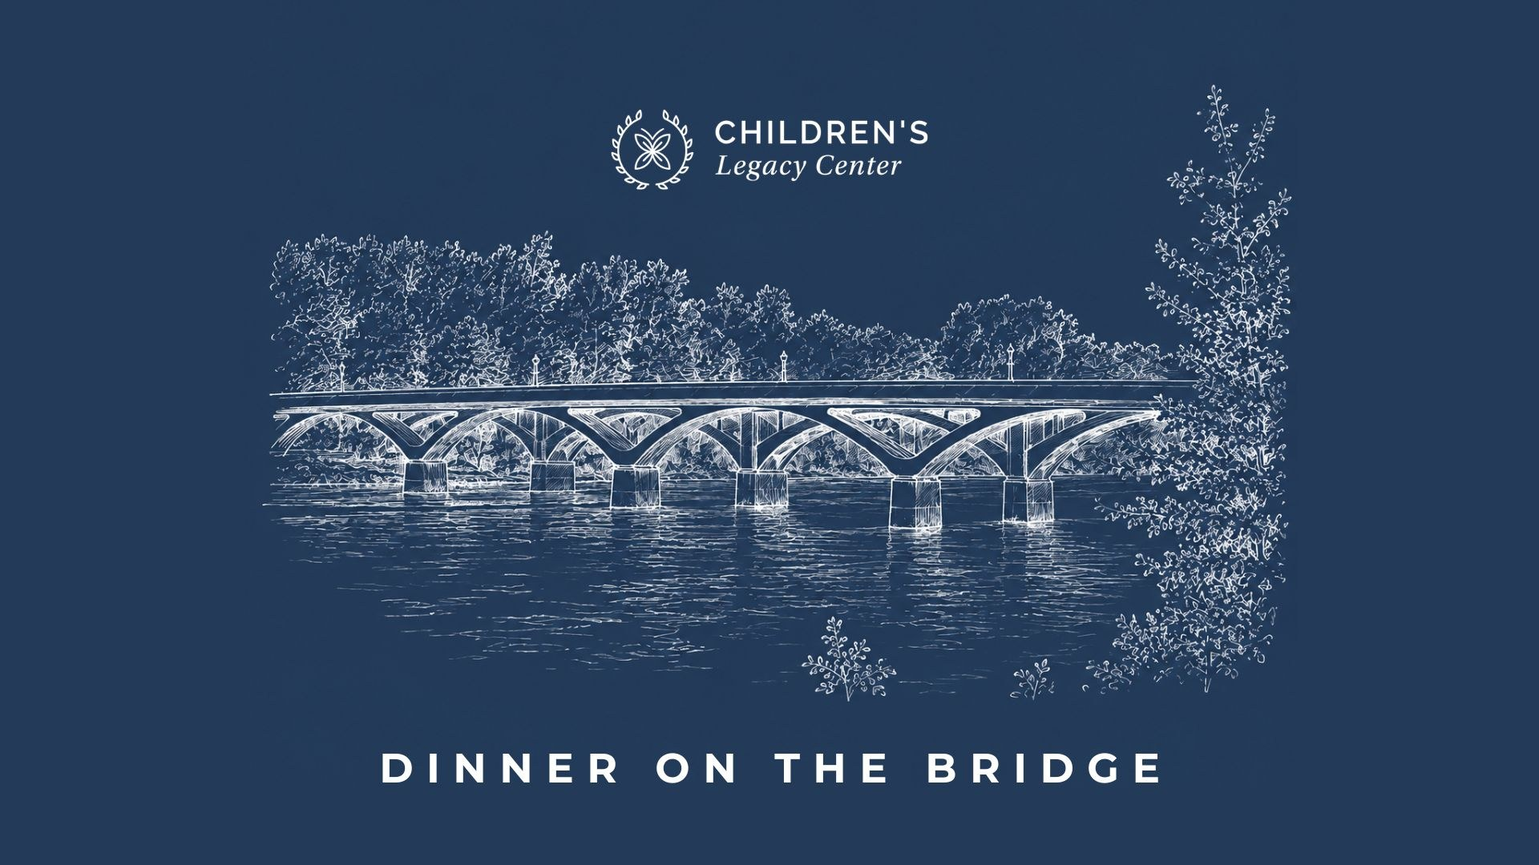
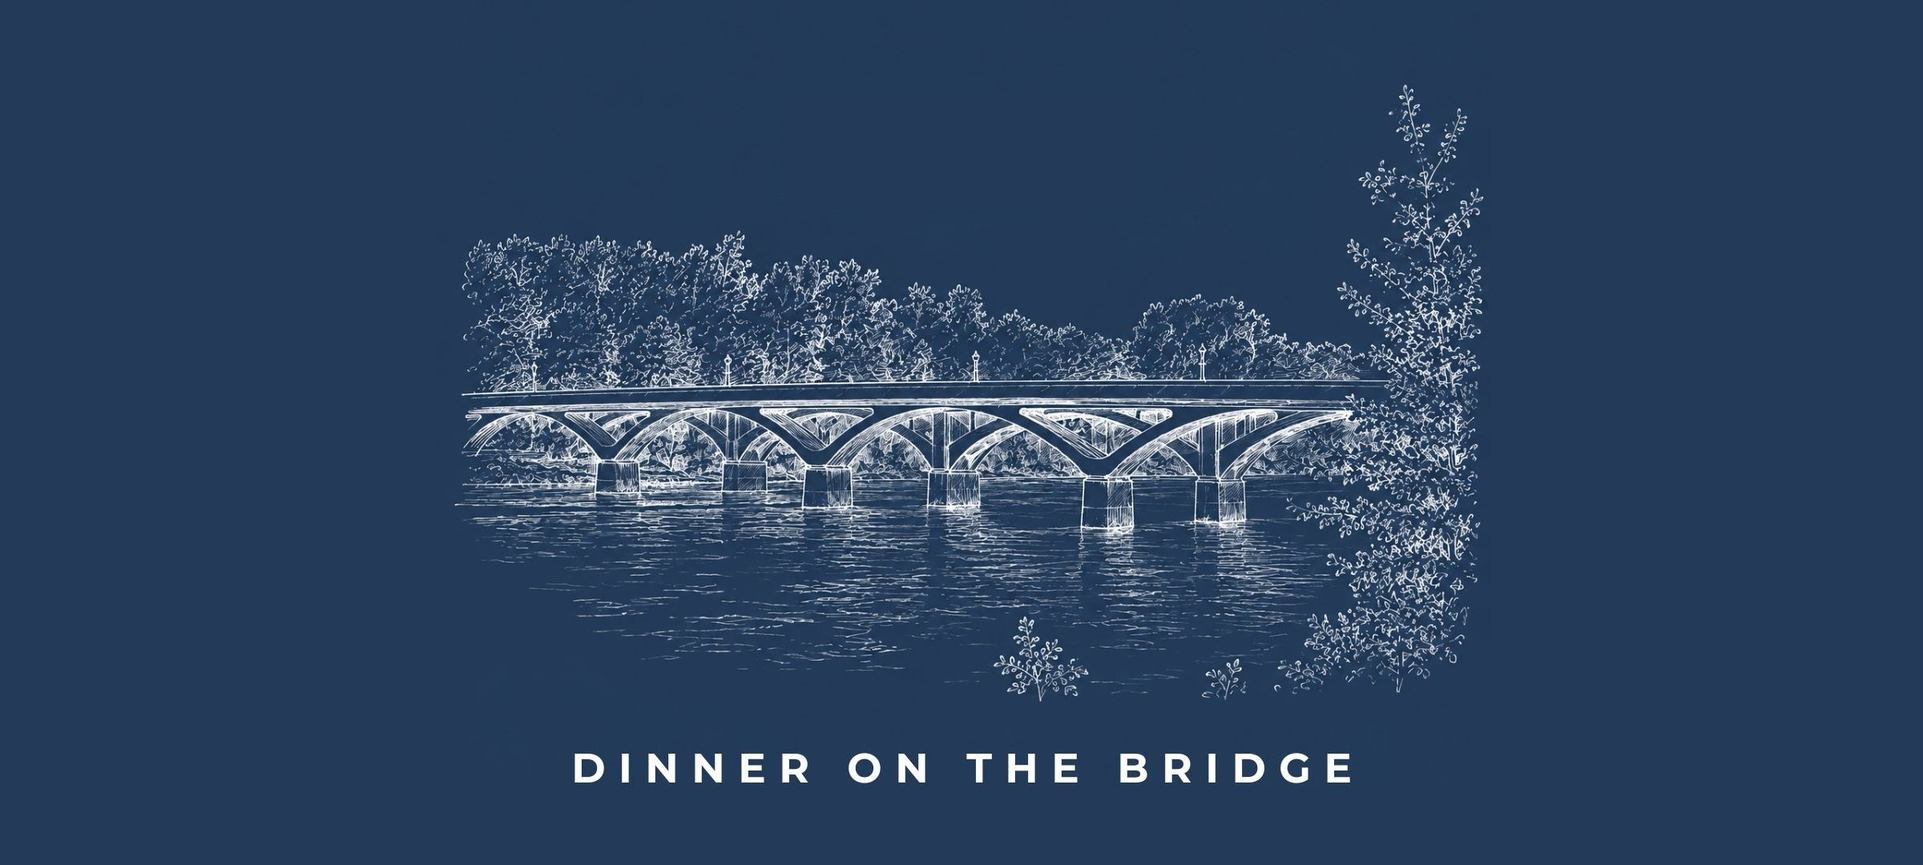
clc: Dinner on the Bridge round-2 refinement — hero rework, Ten Years flip, alternating section colors, stats-gap fix
Mat's second screencast pass (tr_20260728_011f755), on top of commits 1da3d4a/dd95c6f:
- Hero: removed the redundant CLC logo from the banner image (already in nav), widened canvas
  1920x1080 -> 2400x1080 on the same solid navy so the illustration reads smaller and crops less
  across viewport widths, capped rendered height to ~55vh instead of near-full-viewport
- Added spacing above the intro section and around the Get Your Tickets button
- Flipped Ten Years to image-left/text-right (alternates with the row above) and capped its photo
  height to match the text column instead of a tall uncropped scale
- Applied the alternating section-background pattern (white/gray/blue/white/gray/blue/white):
  Ten Years -> gray, pull-quote -> blue, Impact Stats -> gray (Map and Become-a-Sponsor already
  matched via their existing site-wide classes, no change needed there)
- Root-caused the white gap below the stats row to the shared .page-padding class's baked-in
  margin-bottom:15px (padding override alone never reached it) and zeroed it out

Changed region(s): [[0.1562, 0.0917, 0.8438, 0.825], [0.25, 0.8556, 0.75, 0.9167], [0.375, 0.1222, 0.5938, 0.2139]]

diff --git a/clc/pages/dinner-on-the-bridge-2026/preview/dinner-on-the-bridge-2026.html b/clc/pages/dinner-on-the-bridge-2026/preview/dinner-on-the-bridge-2026.html
@@ -36,13 +36,32 @@
   the sponsorship-cover thumbnail sizing, the Ten Years dead-space column, the container/gutter
   mismatch on the intro section, the detached gold rule, and the fabricated Google Maps embed
   (was centered on 0x0 / showed a Travelodge, not Diestelhorst Bridge).
+
+  2026-07-28 ROUND 2 — Mat's second screencast pass (tr_20260728_011f755, "looking better, but we
+  have some work to do"). Reworked the banner asset itself (logo removed — redundant with the nav
+  above it; canvas widened 1920->2400 on the same solid navy so the illustration reads smaller and
+  crops less across viewport widths) and capped its rendered height so it no longer eats the full
+  viewport. Added breathing room above the intro section and around the tickets button. Flipped
+  the Ten Years row to image-left/text-right and constrained its photo height to match the copy
+  column instead of dominating the row. Applied the alternating section-background pattern Mat
+  asked for (white / gray / blue / white / gray / blue / white...) — turned out two of the six
+  sections already matched by virtue of their shared site-wide classes (`.map.cfr-what-to-expect`
+  is already navy in the global stylesheet, `.pilot` is already white-smoke), so only Ten Years,
+  the pull-quote, and Impact Stats actually needed color changes. Root-caused the white gap below
+  the stats row to the shared `.page-padding` class's baked-in `margin-bottom:15px`, which isn't
+  reachable by overriding padding alone — zeroed it out directly.
 -->
 
 <!-- 1. HERO — full-width banner (the blue Diestelhorst Bridge illustration Morgan sent).
      Plain responsive image, not the site's `.main-image._4` hero-band classes — see the
-     2026-07-28 fix note in git history for why. -->
+     2026-07-28 fix note in git history for why.
+     ROUND 2: asset itself edited (logo painted out with the sampled navy fill since the bg is a
+     flat solid color; canvas widened 1920x1080 -> 2400x1080 on the same navy so the illustration
+     occupies a smaller share of the frame at any given render width). max-height + object-fit:cover
+     added so the hero reads at roughly half the viewport instead of nearly filling it (Mat: "don't
+     take that verbatim" on the 50% figure — used judgment, not scripture). -->
 <div class="services-main">
-  <img src="https://raw.githubusercontent.com/Mat-Longinow/arch/main/clc/pages/images/dinner-on-the-bridge-2026-banner.jpg" loading="lazy" alt="Dinner on the Bridge — Children's Legacy Center" style="width:100%;height:auto;display:block;">
+  <img src="https://raw.githubusercontent.com/Mat-Longinow/arch/main/clc/pages/images/dinner-on-the-bridge-2026-banner.jpg" loading="lazy" alt="Dinner on the Bridge — Children's Legacy Center" style="width:100%;max-height:55vh;object-fit:cover;display:block;">
 </div>
 
 <!-- 2. EVENT INTRO + TICKETS CTA.
@@ -51,8 +70,10 @@
      is what made this block read as indented/offset relative to the sections below it. Also swapped
      the stray `.yellow-div-copy` (a different, grid-based component, not a rule) for the standard
      `.yellow-div` used as the gold underline everywhere else on this page, and gave the title a
-     size closer to other CLC event pages' hero titles. -->
-<section class="hero-without-image">
+     size closer to other CLC event pages' hero titles.
+     ROUND 2: added top padding on the section so the title doesn't sit squeezed against the hero,
+     and top margin on the tickets button so it doesn't crowd the "Benefiting..." line above it. -->
+<section class="hero-without-image" style="padding-top:48px;">
   <div class="page-padding">
     <div class="container-large">
       <h3 class="heading-26 crab-feed-hero-title" style="font-size:2.75rem;">Dinner on the Bridge<br></h3>
@@ -60,7 +81,7 @@
       <div class="columns-7 w-row" style="margin-top:24px;">
         <div class="w-col w-col-6">
           <p class="paragraph-14 crab-feed-tickets-paragraph"><strong>A first-time fundraising event honoring ten years of service.</strong><br><br>On a Saturday evening in September, the Diestelhorst Bridge will be closed and transformed. One continuous table will run its length, lit from above, framed by the Sacramento River on either side. Odell Craft BBQ has built a multi-course menu specifically for this evening and this place.<br><br><strong>September 12, 2026 | 5:30 PM</strong><br>Diestelhorst Bridge, Redding, California<br>Single seating &middot; One continuous table<br><br><em>Benefiting Children's Legacy Center &middot; Founding Culinary Partner, Odell Craft BBQ</em></p>
-          <a href="https://onesafeplace.ticketspice.com/dinner-on-the-bridge" target="_blank" rel="noopener" class="button-link w-inline-block">
+          <a href="https://onesafeplace.ticketspice.com/dinner-on-the-bridge" target="_blank" rel="noopener" class="button-link w-inline-block" style="margin-top:16px;">
             <div class="button learn-more nomintions-button purple-button">
               <h4 class="h4-type button nominations-text purple-button">Get Your Tickets</h4>
             </div>
@@ -79,23 +100,28 @@
      tall photo overpowering a short text column and dumping dead white space beneath the text.
      Centering the row vertically (instead of the default top-align) distributes the leftover
      space evenly instead of stacking it all below the copy, and the img is set to fill its
-     column at a sane, uncropped scale. -->
-<div class="services-holder crt-section-2">
+     column at a sane, uncropped scale.
+     ROUND 2: flipped to image-left/text-right (the row above is text-left/image-right, so this
+     alternates per Mat's ask) and the row itself carries the section's own background color
+     directly on the outer div rather than a nested wrapper, since `.services-holder.crt-section-2`
+     already carries its own bottom padding and safely contains it. Image capped to a max-height
+     roughly matching the text column instead of the previous 200%-scaled tall crop. -->
+<div class="services-holder crt-section-2" style="background-color:var(--white-smoke);">
   <div class="page-padding">
     <div class="container-large">
       <div class="vertical-page">
         <div class="careers-text _2">
           <div class="div-block-38 white _3">
             <div class="columns _2 whi w-row" style="align-items:center;">
+              <div class="column _2 white w-col w-col-6">
+                <div class="div-block-39 _2"><img src="https://raw.githubusercontent.com/Mat-Longinow/arch/main/clc/pages/images/dinner-on-the-bridge-2026-diestelhorst-2.jpg" loading="lazy" alt="Diestelhorst Bridge at sunset" style="width:100%;height:auto;max-height:420px;display:block;object-fit:cover;"></div>
+              </div>
               <div class="image-holder _2 white w-col w-col-6">
                 <div class="full-wrap">
                   <h3 class="heading-25">Ten Years. One Bridge. One Evening.</h3>
                   <div class="yellow-div left-side"></div>
                   <p class="paragraph-12 crt-info-blurb">Every day in Shasta County, a child walks through a door after the worst day of their life. A family arrives when the systems they trusted have failed them. An adult survivor steps forward, ready to begin healing. What happens next depends entirely on who is waiting on the other side of that door.<br><br>For ten years, the people of Children's Legacy Center have been waiting. Forensic interviewers. Trauma therapists. Family advocates. Medical professionals. Trafficking response specialists. They do not do this work for recognition &mdash; they do it because the children have nowhere else to go.<br><br>State and federal contracts pay for the floor of what every child deserves. Philanthropy is what raises the ceiling. This is the first time we have gathered the community around a single table to celebrate what has been built.</p>
                 </div>
-              </div>
-              <div class="column _2 white w-col w-col-6">
-                <div class="div-block-39 _2"><img src="https://raw.githubusercontent.com/Mat-Longinow/arch/main/clc/pages/images/dinner-on-the-bridge-2026-diestelhorst-2.jpg" loading="lazy" alt="Diestelhorst Bridge at sunset" style="width:100%;height:auto;display:block;object-fit:cover;"></div>
               </div>
             </div>
           </div>
@@ -107,10 +133,15 @@
 
 <!-- 3B. PULL QUOTE — promoted from plain body text (was buried mid-paragraph in the sponsorship
      block) to its own designed callout, matching where it sits in the guide's own layout: right
-     after the Ten Years story, before Partnership Tiers. -->
-<div class="page-padding" style="background-color:var(--white-smoke);padding-top:48px;padding-bottom:48px;">
+     after the Ten Years story, before Partnership Tiers.
+     ROUND 2: this is the "Every yes from a sponsor" section in Mat's alternating pattern (white /
+     gray / BLUE / white...) — flipped from white-smoke to navy, quote text to white for contrast,
+     gold left-rule kept. `margin-bottom:0` added since this div's bare `.page-padding` class carries
+     a baked-in 15px bottom margin (the same class that caused the stats-row gap below) — zeroing it
+     here too so no seam sneaks in between this and Partnership Tiers. -->
+<div class="page-padding" style="background-color:var(--dark-slate-blue);padding-top:48px;padding-bottom:48px;margin-bottom:0;">
   <div class="container-large" style="max-width:900px;">
-    <blockquote style="margin:0;padding:0 0 0 24px;border-left:4px solid var(--gold);font-family:utopia-std, sans-serif;font-style:italic;font-size:1.5rem;line-height:1.4;color:var(--dark-slate-blue);">
+    <blockquote style="margin:0;padding:0 0 0 24px;border-left:4px solid var(--gold);font-family:utopia-std, sans-serif;font-style:italic;font-size:1.5rem;line-height:1.4;color:var(--white);">
       &ldquo;Every yes from a sponsor is a yes to a child who needs somewhere to go after the worst day of their life.&rdquo;
     </blockquote>
   </div>
@@ -188,10 +219,16 @@
 </div>
 
 <!-- 5. IMPACT STATS — absent from the first pass. No stat-row precedent exists elsewhere in the
-     CLC/OSP guts (checked), so this is a new, self-contained component: a navy band matching the
-     site's existing `--dark-slate-blue` section treatment (same pattern as the When & Where band
-     below), three figures verbatim from the guide. -->
-<div class="page-padding" style="background-color:var(--dark-slate-blue);color:var(--white);padding-top:56px;padding-bottom:56px;">
+     CLC/OSP guts (checked), so this is a new, self-contained component.
+     ROUND 2: this is the 5th section in Mat's alternating pattern (white / gray / blue / white /
+     GRAY / blue / white...) — flipped from navy to white-smoke, body text to dark-slate-blue for
+     contrast (gold figures untouched, they read fine on light too). Root cause of the white gap
+     Mat flagged below this row: the bare `.page-padding` class carries `margin-bottom:15px` in the
+     site's global stylesheet, which the earlier inline `padding-top/bottom` override never touched
+     (padding and margin are different properties) — that 15px margin was rendering as a strip of
+     the page's default white showing between this section's box and the (already-navy, unrelated)
+     Map section below it. Zeroed out directly. -->
+<div class="page-padding" style="background-color:var(--white-smoke);color:var(--dark-slate-blue);padding-top:56px;padding-bottom:56px;margin-bottom:0;">
   <div class="container-large">
     <div style="display:flex;flex-wrap:wrap;gap:32px;text-align:center;justify-content:center;">
       <div style="flex:1 1 220px;">

diff --git a/clc/pages/dinner-on-the-bridge-2026/production/dinner-on-the-bridge-2026.html b/clc/pages/dinner-on-the-bridge-2026/production/dinner-on-the-bridge-2026.html
@@ -36,13 +36,32 @@
   the sponsorship-cover thumbnail sizing, the Ten Years dead-space column, the container/gutter
   mismatch on the intro section, the detached gold rule, and the fabricated Google Maps embed
   (was centered on 0x0 / showed a Travelodge, not Diestelhorst Bridge).
+
+  2026-07-28 ROUND 2 — Mat's second screencast pass (tr_20260728_011f755, "looking better, but we
+  have some work to do"). Reworked the banner asset itself (logo removed — redundant with the nav
+  above it; canvas widened 1920->2400 on the same solid navy so the illustration reads smaller and
+  crops less across viewport widths) and capped its rendered height so it no longer eats the full
+  viewport. Added breathing room above the intro section and around the tickets button. Flipped
+  the Ten Years row to image-left/text-right and constrained its photo height to match the copy
+  column instead of dominating the row. Applied the alternating section-background pattern Mat
+  asked for (white / gray / blue / white / gray / blue / white...) — turned out two of the six
+  sections already matched by virtue of their shared site-wide classes (`.map.cfr-what-to-expect`
+  is already navy in the global stylesheet, `.pilot` is already white-smoke), so only Ten Years,
+  the pull-quote, and Impact Stats actually needed color changes. Root-caused the white gap below
+  the stats row to the shared `.page-padding` class's baked-in `margin-bottom:15px`, which isn't
+  reachable by overriding padding alone — zeroed it out directly.
 -->
 
 <!-- 1. HERO — full-width banner (the blue Diestelhorst Bridge illustration Morgan sent).
      Plain responsive image, not the site's `.main-image._4` hero-band classes — see the
-     2026-07-28 fix note in git history for why. -->
+     2026-07-28 fix note in git history for why.
+     ROUND 2: asset itself edited (logo painted out with the sampled navy fill since the bg is a
+     flat solid color; canvas widened 1920x1080 -> 2400x1080 on the same navy so the illustration
+     occupies a smaller share of the frame at any given render width). max-height + object-fit:cover
+     added so the hero reads at roughly half the viewport instead of nearly filling it (Mat: "don't
+     take that verbatim" on the 50% figure — used judgment, not scripture). -->
 <div class="services-main">
-  <img src="https://raw.githubusercontent.com/Mat-Longinow/arch/main/clc/pages/images/dinner-on-the-bridge-2026-banner.jpg" loading="lazy" alt="Dinner on the Bridge — Children's Legacy Center" style="width:100%;height:auto;display:block;">
+  <img src="https://raw.githubusercontent.com/Mat-Longinow/arch/main/clc/pages/images/dinner-on-the-bridge-2026-banner.jpg" loading="lazy" alt="Dinner on the Bridge — Children's Legacy Center" style="width:100%;max-height:55vh;object-fit:cover;display:block;">
 </div>
 
 <!-- 2. EVENT INTRO + TICKETS CTA.
@@ -51,8 +70,10 @@
      is what made this block read as indented/offset relative to the sections below it. Also swapped
      the stray `.yellow-div-copy` (a different, grid-based component, not a rule) for the standard
      `.yellow-div` used as the gold underline everywhere else on this page, and gave the title a
-     size closer to other CLC event pages' hero titles. -->
-<section class="hero-without-image">
+     size closer to other CLC event pages' hero titles.
+     ROUND 2: added top padding on the section so the title doesn't sit squeezed against the hero,
+     and top margin on the tickets button so it doesn't crowd the "Benefiting..." line above it. -->
+<section class="hero-without-image" style="padding-top:48px;">
   <div class="page-padding">
     <div class="container-large">
       <h3 class="heading-26 crab-feed-hero-title" style="font-size:2.75rem;">Dinner on the Bridge<br></h3>
@@ -60,7 +81,7 @@
       <div class="columns-7 w-row" style="margin-top:24px;">
         <div class="w-col w-col-6">
           <p class="paragraph-14 crab-feed-tickets-paragraph"><strong>A first-time fundraising event honoring ten years of service.</strong><br><br>On a Saturday evening in September, the Diestelhorst Bridge will be closed and transformed. One continuous table will run its length, lit from above, framed by the Sacramento River on either side. Odell Craft BBQ has built a multi-course menu specifically for this evening and this place.<br><br><strong>September 12, 2026 | 5:30 PM</strong><br>Diestelhorst Bridge, Redding, California<br>Single seating &middot; One continuous table<br><br><em>Benefiting Children's Legacy Center &middot; Founding Culinary Partner, Odell Craft BBQ</em></p>
-          <a href="https://onesafeplace.ticketspice.com/dinner-on-the-bridge" target="_blank" rel="noopener" class="button-link w-inline-block">
+          <a href="https://onesafeplace.ticketspice.com/dinner-on-the-bridge" target="_blank" rel="noopener" class="button-link w-inline-block" style="margin-top:16px;">
             <div class="button learn-more nomintions-button purple-button">
               <h4 class="h4-type button nominations-text purple-button">Get Your Tickets</h4>
             </div>
@@ -79,23 +100,28 @@
      tall photo overpowering a short text column and dumping dead white space beneath the text.
      Centering the row vertically (instead of the default top-align) distributes the leftover
      space evenly instead of stacking it all below the copy, and the img is set to fill its
-     column at a sane, uncropped scale. -->
-<div class="services-holder crt-section-2">
+     column at a sane, uncropped scale.
+     ROUND 2: flipped to image-left/text-right (the row above is text-left/image-right, so this
+     alternates per Mat's ask) and the row itself carries the section's own background color
+     directly on the outer div rather than a nested wrapper, since `.services-holder.crt-section-2`
+     already carries its own bottom padding and safely contains it. Image capped to a max-height
+     roughly matching the text column instead of the previous 200%-scaled tall crop. -->
+<div class="services-holder crt-section-2" style="background-color:var(--white-smoke);">
   <div class="page-padding">
     <div class="container-large">
       <div class="vertical-page">
         <div class="careers-text _2">
           <div class="div-block-38 white _3">
             <div class="columns _2 whi w-row" style="align-items:center;">
+              <div class="column _2 white w-col w-col-6">
+                <div class="div-block-39 _2"><img src="https://raw.githubusercontent.com/Mat-Longinow/arch/main/clc/pages/images/dinner-on-the-bridge-2026-diestelhorst-2.jpg" loading="lazy" alt="Diestelhorst Bridge at sunset" style="width:100%;height:auto;max-height:420px;display:block;object-fit:cover;"></div>
+              </div>
               <div class="image-holder _2 white w-col w-col-6">
                 <div class="full-wrap">
                   <h3 class="heading-25">Ten Years. One Bridge. One Evening.</h3>
                   <div class="yellow-div left-side"></div>
                   <p class="paragraph-12 crt-info-blurb">Every day in Shasta County, a child walks through a door after the worst day of their life. A family arrives when the systems they trusted have failed them. An adult survivor steps forward, ready to begin healing. What happens next depends entirely on who is waiting on the other side of that door.<br><br>For ten years, the people of Children's Legacy Center have been waiting. Forensic interviewers. Trauma therapists. Family advocates. Medical professionals. Trafficking response specialists. They do not do this work for recognition &mdash; they do it because the children have nowhere else to go.<br><br>State and federal contracts pay for the floor of what every child deserves. Philanthropy is what raises the ceiling. This is the first time we have gathered the community around a single table to celebrate what has been built.</p>
                 </div>
-              </div>
-              <div class="column _2 white w-col w-col-6">
-                <div class="div-block-39 _2"><img src="https://raw.githubusercontent.com/Mat-Longinow/arch/main/clc/pages/images/dinner-on-the-bridge-2026-diestelhorst-2.jpg" loading="lazy" alt="Diestelhorst Bridge at sunset" style="width:100%;height:auto;display:block;object-fit:cover;"></div>
               </div>
             </div>
           </div>
@@ -107,10 +133,15 @@
 
 <!-- 3B. PULL QUOTE — promoted from plain body text (was buried mid-paragraph in the sponsorship
      block) to its own designed callout, matching where it sits in the guide's own layout: right
-     after the Ten Years story, before Partnership Tiers. -->
-<div class="page-padding" style="background-color:var(--white-smoke);padding-top:48px;padding-bottom:48px;">
+     after the Ten Years story, before Partnership Tiers.
+     ROUND 2: this is the "Every yes from a sponsor" section in Mat's alternating pattern (white /
+     gray / BLUE / white...) — flipped from white-smoke to navy, quote text to white for contrast,
+     gold left-rule kept. `margin-bottom:0` added since this div's bare `.page-padding` class carries
+     a baked-in 15px bottom margin (the same class that caused the stats-row gap below) — zeroing it
+     here too so no seam sneaks in between this and Partnership Tiers. -->
+<div class="page-padding" style="background-color:var(--dark-slate-blue);padding-top:48px;padding-bottom:48px;margin-bottom:0;">
   <div class="container-large" style="max-width:900px;">
-    <blockquote style="margin:0;padding:0 0 0 24px;border-left:4px solid var(--gold);font-family:utopia-std, sans-serif;font-style:italic;font-size:1.5rem;line-height:1.4;color:var(--dark-slate-blue);">
+    <blockquote style="margin:0;padding:0 0 0 24px;border-left:4px solid var(--gold);font-family:utopia-std, sans-serif;font-style:italic;font-size:1.5rem;line-height:1.4;color:var(--white);">
       &ldquo;Every yes from a sponsor is a yes to a child who needs somewhere to go after the worst day of their life.&rdquo;
     </blockquote>
   </div>
@@ -188,10 +219,16 @@
 </div>
 
 <!-- 5. IMPACT STATS — absent from the first pass. No stat-row precedent exists elsewhere in the
-     CLC/OSP guts (checked), so this is a new, self-contained component: a navy band matching the
-     site's existing `--dark-slate-blue` section treatment (same pattern as the When & Where band
-     below), three figures verbatim from the guide. -->
-<div class="page-padding" style="background-color:var(--dark-slate-blue);color:var(--white);padding-top:56px;padding-bottom:56px;">
+     CLC/OSP guts (checked), so this is a new, self-contained component.
+     ROUND 2: this is the 5th section in Mat's alternating pattern (white / gray / blue / white /
+     GRAY / blue / white...) — flipped from navy to white-smoke, body text to dark-slate-blue for
+     contrast (gold figures untouched, they read fine on light too). Root cause of the white gap
+     Mat flagged below this row: the bare `.page-padding` class carries `margin-bottom:15px` in the
+     site's global stylesheet, which the earlier inline `padding-top/bottom` override never touched
+     (padding and margin are different properties) — that 15px margin was rendering as a strip of
+     the page's default white showing between this section's box and the (already-navy, unrelated)
+     Map section below it. Zeroed out directly. -->
+<div class="page-padding" style="background-color:var(--white-smoke);color:var(--dark-slate-blue);padding-top:56px;padding-bottom:56px;margin-bottom:0;">
   <div class="container-large">
     <div style="display:flex;flex-wrap:wrap;gap:32px;text-align:center;justify-content:center;">
       <div style="flex:1 1 220px;">
